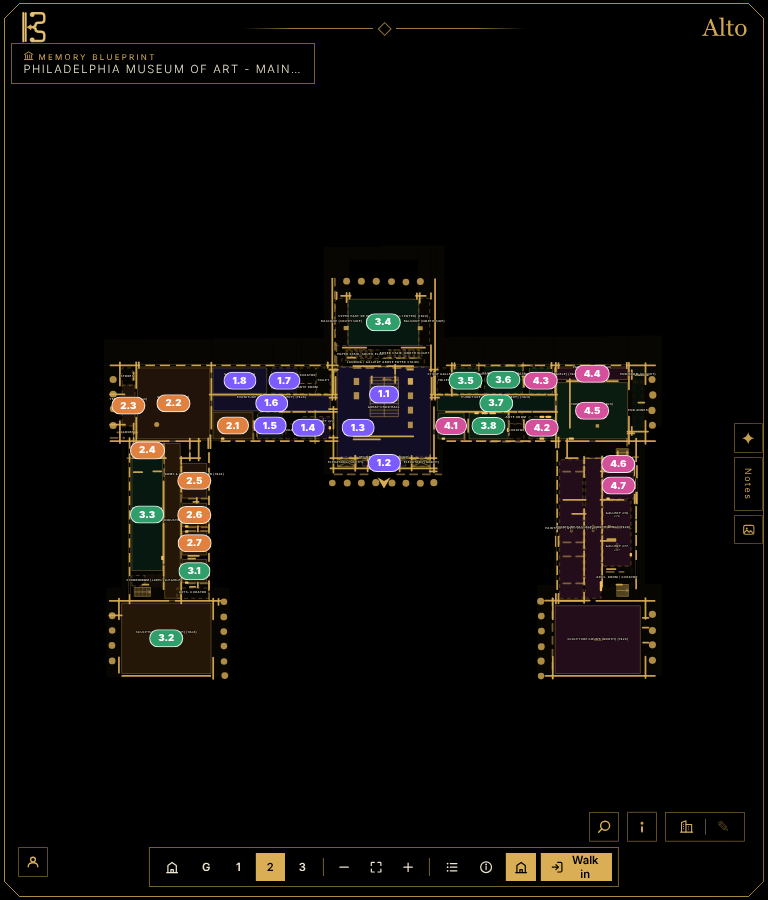
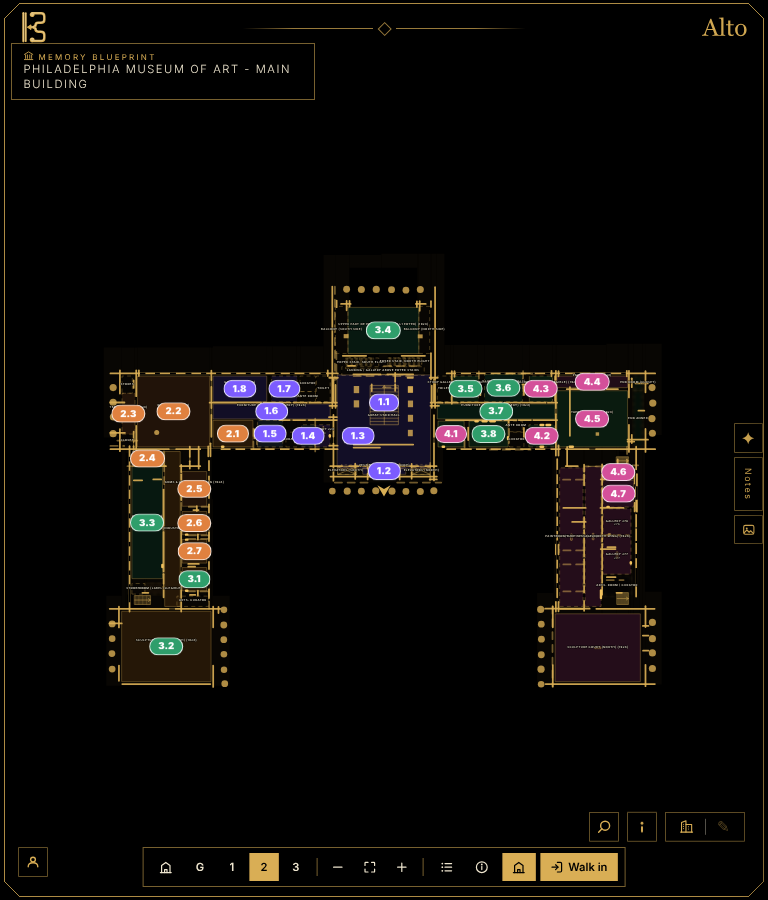
Blueprint dock: Art's two fixes (Walk in on one line; Retro name wraps)
- the dock's Walk in button is nowrap and does not shrink (wrapped at 768)
- Retro's name chip wraps to two lines at most instead of cutting the
  name short (the spaced capitals overflowed a one-line ellipsis)
- test: both, at 1440 and 768, Classic and Retro, Chromium + WebKit
- notes-shots: classic-768 and retro-768/1440 retaken

Claude-Session: https://claude.ai/code/session_01NpC4JUX96KfBWyikdkymWV

diff --git a/tests/test_blueprint_dock.py b/tests/test_blueprint_dock.py
@@ -250,3 +250,22 @@ def test_on_a_phone_the_plan_is_never_under_the_dock(browser, w, h, preview):
         assert errors == []
     finally:
         page.close()
+
+
+# Art 2026-10-30 (alto-art-1030-1620-c): "Walk in" on one line at 768; the Retro name chip shows the whole name (it wraps instead of cutting short)
+@pytest.mark.parametrize("w", [1440, 768])
+@pytest.mark.parametrize("style", [None, "retro"])
+def test_walk_in_is_one_line_and_the_name_is_not_cut(browser, w, style):
+    page, errors = _page(browser, w, style=style)
+    try:
+        if style:
+            page.wait_for_function("document.documentElement.classList.contains('alto-retro')")
+        page.wait_for_timeout(400)
+        r = page.evaluate("""(() => { const g = document.querySelector('#bldg-root .bl-dock .bl-go:not(.bl-alt)'), s = g.querySelector('span'), h = document.querySelector('#bldg-root .bl-head h2');
+          const lh = parseFloat(getComputedStyle(s).lineHeight) || parseFloat(getComputedStyle(s).fontSize) * 1.3;
+          return {spanH: s.getBoundingClientRect().height, lh, shown: getComputedStyle(s).display !== 'none', cutX: h.scrollWidth - h.clientWidth, cutY: h.scrollHeight - h.clientHeight}; })()""")
+        assert r["shown"] and r["spanH"] < r["lh"] * 1.5, r                                      # one line
+        assert r["cutX"] <= 1 and r["cutY"] <= 1, r                                              # the whole name
+        assert errors == []
+    finally:
+        page.close()

diff --git a/alto/build/retro.py b/alto/build/retro.py
@@ -346,6 +346,7 @@ FORMAT_CSS = r"""
   X #bldg-root .bl-cards button b{border-radius:0 !important;color:#000 !important;}
   X #bldg-root .bl-kind{color:#d9ae55 !important;letter-spacing:.28em !important;font-weight:400 !important;}
   X #bldg-root .bl-head h2{text-transform:uppercase;letter-spacing:.14em;font-weight:300 !important;}
+  X #bldg-root .bl-head h2:not(#_){white-space:normal;text-overflow:clip;display:-webkit-box;-webkit-box-orient:vertical;-webkit-line-clamp:2;line-height:1.35;}   /* (Art 2026-10-30: the spaced capitals cut the name short on one line: it wraps, two lines at most) */
 
   /* the Memory Atlas's map (palace_world.py): a navigator's chart, gold on night blue, the units in the poster's inks */
   X #wpal-root:not(#_){--w-sea1:#0a1b34;--w-sea2:#05070b;--w-land:#0b0d12;--w-edge:rgba(217,174,85,.32);--w-grat:rgba(217,174,85,.07);--w-text:#efe6cf;--w-sub:#b9b2a0;

diff --git a/alto/build/palace_building_asset.py b/alto/build/palace_building_asset.py
@@ -179,6 +179,7 @@ html:not(.mobile):not(.pmin) #bldg-root .bl-foot{display:none;}
 #bldg-root .bl-cr.open{display:block;-webkit-line-clamp:unset;}
 @media (max-width:640px){html:not(.mobile):not(.pmin) #bldg-root :is(.bl-zo,.bl-zi),html:not(.mobile):not(.pmin) #bldg-root .bl-dock .bl-go span{display:none;}}
 html:not(.mobile):not(.pmin) #bldg-root .bl-dock .bl-go span{margin-right:2px;}
+#bldg-root .bl-dock .bl-go{white-space:nowrap;flex:none;}   /* (Art 2026-10-30: "Walk in" stays on one line, it wrapped at 768) */
 @media print{#bldg-root{display:none !important;}}
 @media (max-width:700px){#bldg-root .bl-head{max-width:calc(100% - 128px);}#bldg-root .bl-info{bottom:62px;}}
 """
